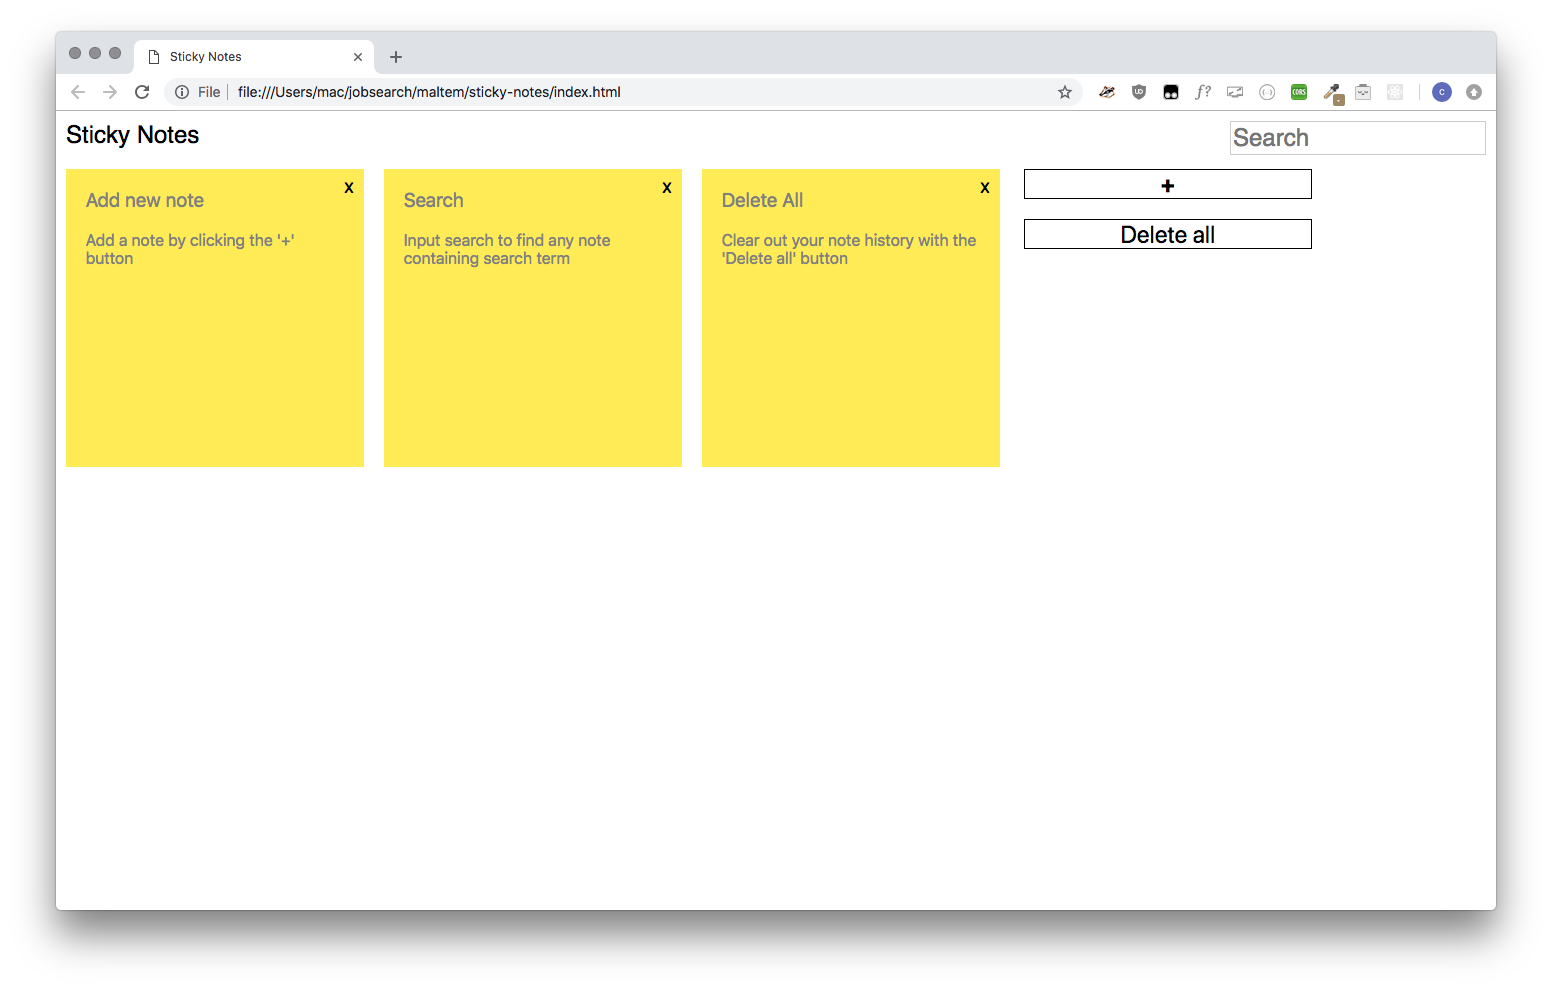
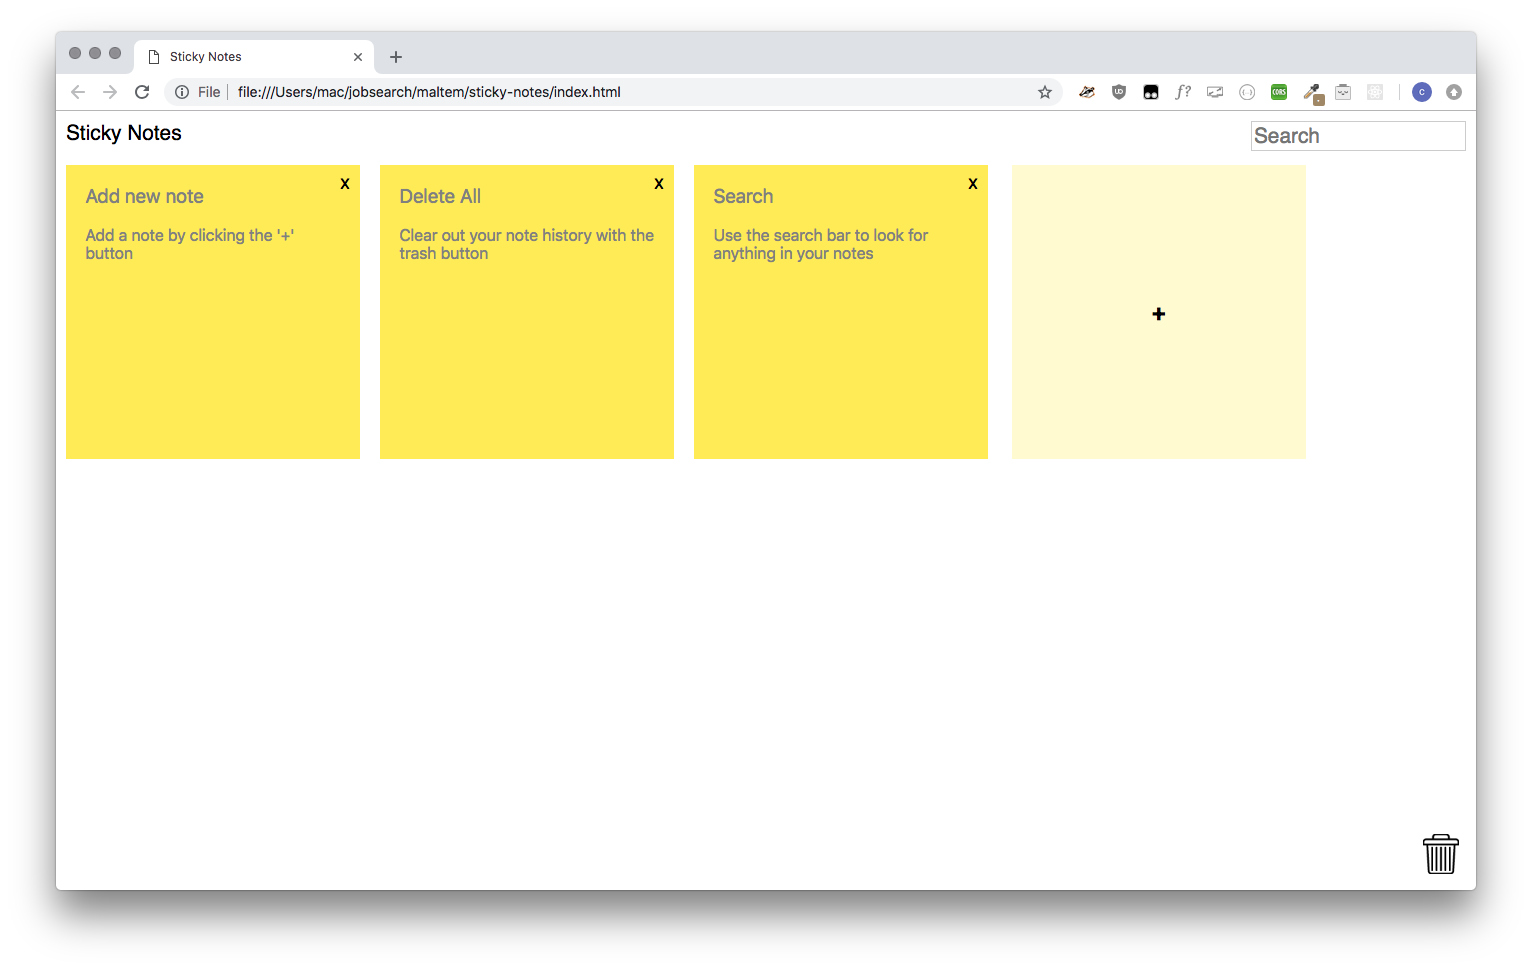
Styling and readme image update

diff --git a/style/main.css b/style/main.css
@@ -146,6 +146,14 @@ img{
 		width:35vw;
 		height:35vw;
 	}
+
+	.title_input, .content{
+		width:30vw;
+	}
+
+	.content{
+		height:30vw;
+	}
 }
 
 @media only screen and (max-width: 480px){
